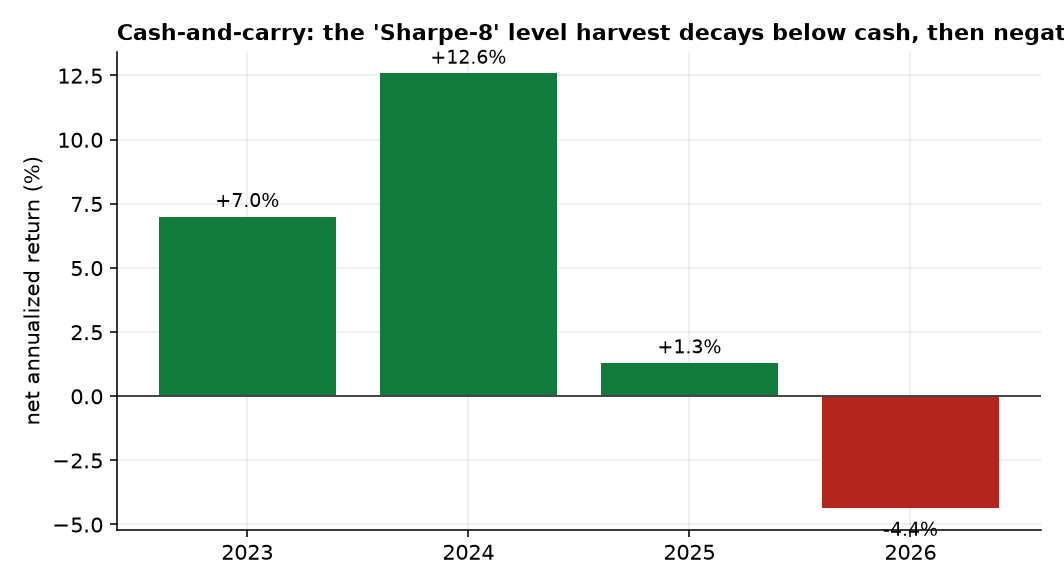
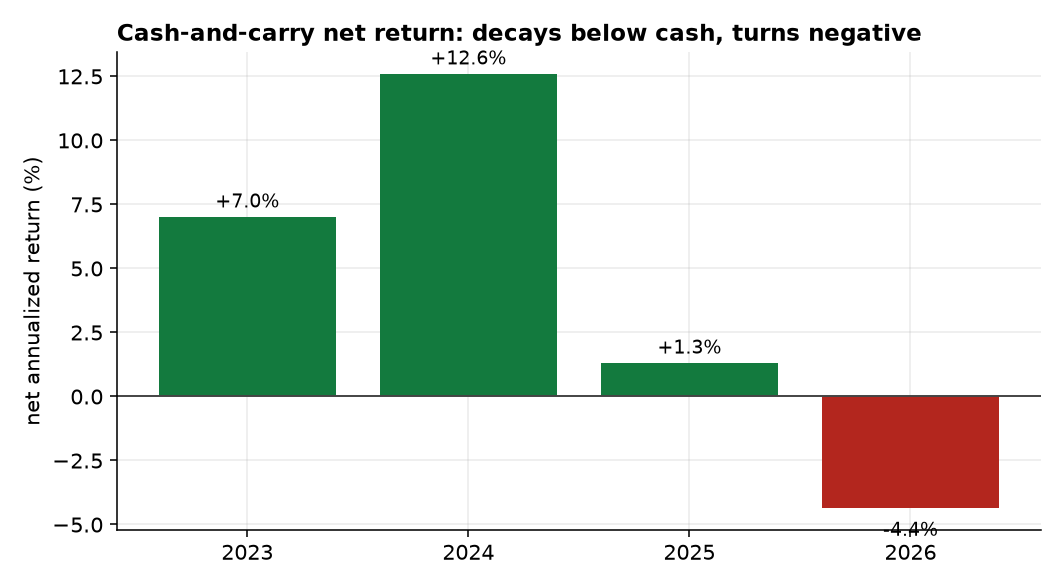
Paper 2: fix clipped fig4 title
Generated with [Claude Code](https://claude.ai/code)
via [Happy](https://happy.engineering)

diff --git a/scripts/41_paper2_figures.py b/scripts/41_paper2_figures.py
@@ -81,8 +81,8 @@ def fig4_cashcarry_decay():
                 ha="center", va="bottom" if v >= 0 else "top", fontsize=10)
     ax.axhline(0, color="#444", lw=1.0)
     ax.set_ylabel("net annualized return (%)")
-    ax.set_title("Cash-and-carry: the 'Sharpe-8' level harvest decays below cash, then negative",
-                 loc="left", fontsize=11.5, fontweight="bold")
+    ax.set_title("Cash-and-carry net return: decays below cash, turns negative",
+                 loc="left", fontsize=12, fontweight="bold")
     fig.tight_layout(); fig.savefig(f"{FIG}/p2_fig4_cashcarry.png"); plt.close(fig)
 
 